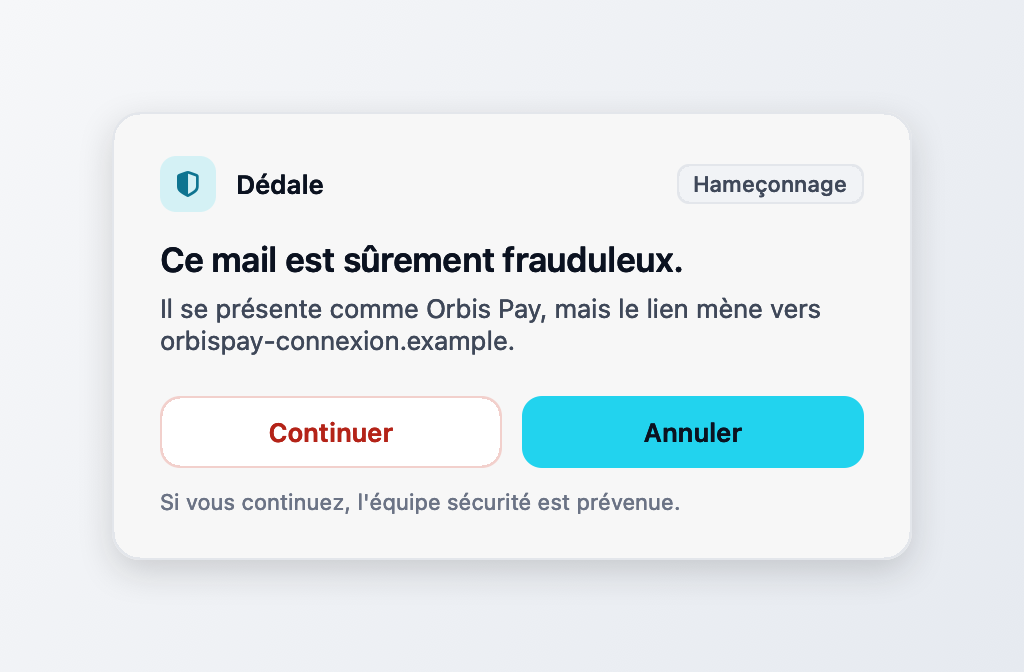
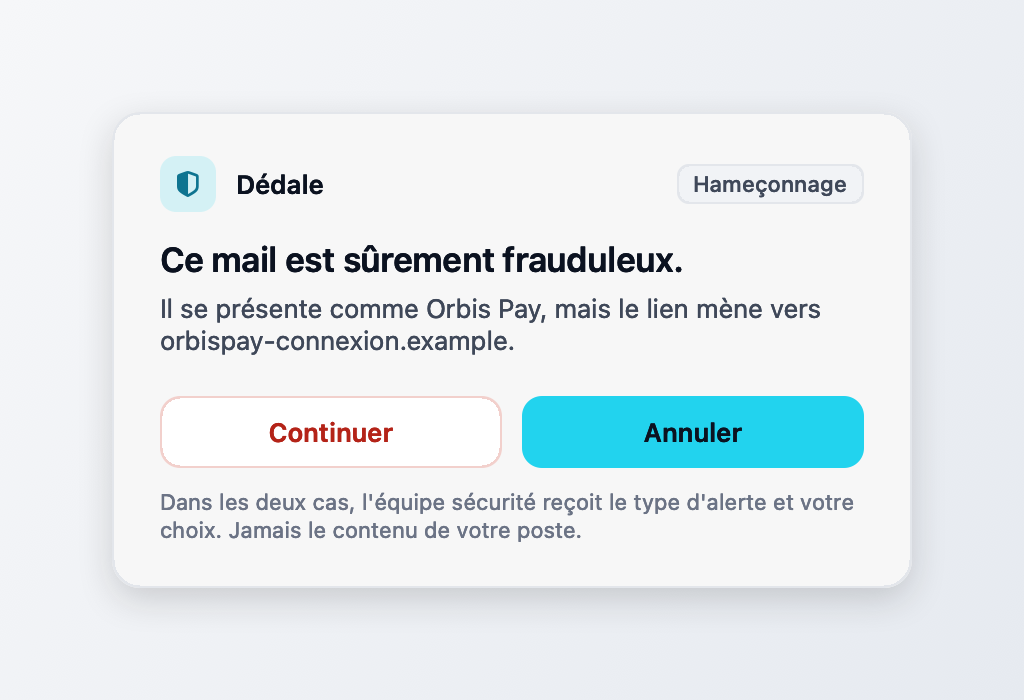
app-mac : les pop-ups disent qu'Annuler part aussi à la SOC
La note de l'alerte disait « Si vous continuez, l'équipe sécurité est
prévenue », alors qu'Annuler envoie aussi un événement. Elle dit
maintenant : « Dans les deux cas, l'équipe sécurité reçoit le type
d'alerte et votre choix. Jamais le contenu de votre poste. » Même phrase
pour un téléchargement, et le panneau « Ce que Dédale regarde » précise que
la copie désarmée d'un mail vient du serveur de messagerie, pas du poste.
Comportement inchangé. Captures refaites.

diff --git a/app-mac/Sources/Dedale/ModulesPoste.swift b/app-mac/Sources/Dedale/ModulesPoste.swift
@@ -27,7 +27,7 @@ enum ModulePoste: String, CaseIterable {
     var lit: String {
         switch self {
         case .mails:
-            return "Les mails de la boîte de démo et le verdict de l'analyseur : expéditeur, objet, raisons."
+            return "Le verdict du serveur de messagerie sur chaque mail reçu : expéditeur, objet, raisons. Jamais la messagerie du Mac."
         case .sites:
             return "L'adresse des pages ouvertes, pour repérer un site sosie. Jamais leur contenu ni vos formulaires."
         case .telechargements:
@@ -40,11 +40,11 @@ enum ModulePoste: String, CaseIterable {
     var envoie: String {
         switch self {
         case .mails:
-            return "Votre choix devant un mail frauduleux, et le mail que vous signalez, désarmé."
+            return "Le type d'alerte et votre choix, que vous annuliez ou continuiez. La copie désarmée d'un mail vient du serveur de messagerie, pas de ce poste."
         case .sites:
             return "Le nom du site sosie, si vous passez outre l'avertissement."
         case .telechargements:
-            return "Le type du fichier, son domaine d'origine, son empreinte SHA-256 et votre choix. Jamais son contenu ni son nom."
+            return "Le type du fichier, son domaine d'origine, son empreinte SHA-256 et votre choix, quel qu'il soit. Jamais son contenu ni son nom."
         case .agents:
             return "Le nom de chaque serveur, son type et ses droits risqués. Jamais les jetons, les clés ni les variables d'environnement."
         }

diff --git a/app-mac/Sources/Dedale/FenetreTelechargement.swift b/app-mac/Sources/Dedale/FenetreTelechargement.swift
@@ -71,7 +71,7 @@ final class FenetreTelechargement: NSObject {
         boutons.orientation = .horizontal
         boutons.distribution = .fillEqually
         boutons.spacing = 10
-        let note = Gabarit.paragraphe("Mis de côté, le fichier reste récupérable depuis le menu Dédale.",
+        let note = Gabarit.paragraphe("Dans les deux cas, l'équipe sécurité reçoit le type du fichier, son origine et votre choix. Jamais son contenu ni son nom.",
                                       taille: 11, couleur: Teinte.discret, largeur: w)
 
         zoneFin.orientation = .vertical

diff --git a/app-mac/Sources/Dedale/FenetreAlerte.swift b/app-mac/Sources/Dedale/FenetreAlerte.swift
@@ -107,7 +107,7 @@ final class FenetreAlerte: NSObject {
 
         let note = Gabarit.paragraphe(
             a.quatreYeux ? "Geste sensible : Dédale le relit avant qu'il parte, et la SOC voit sa décision."
-                         : "Si vous continuez, l'équipe sécurité est prévenue.",
+                         : "Dans les deux cas, l'équipe sécurité reçoit le type d'alerte et votre choix. Jamais le contenu de votre poste.",
             taille: 11, couleur: Teinte.discret, largeur: w)
 
         zoneFin.orientation = .vertical
